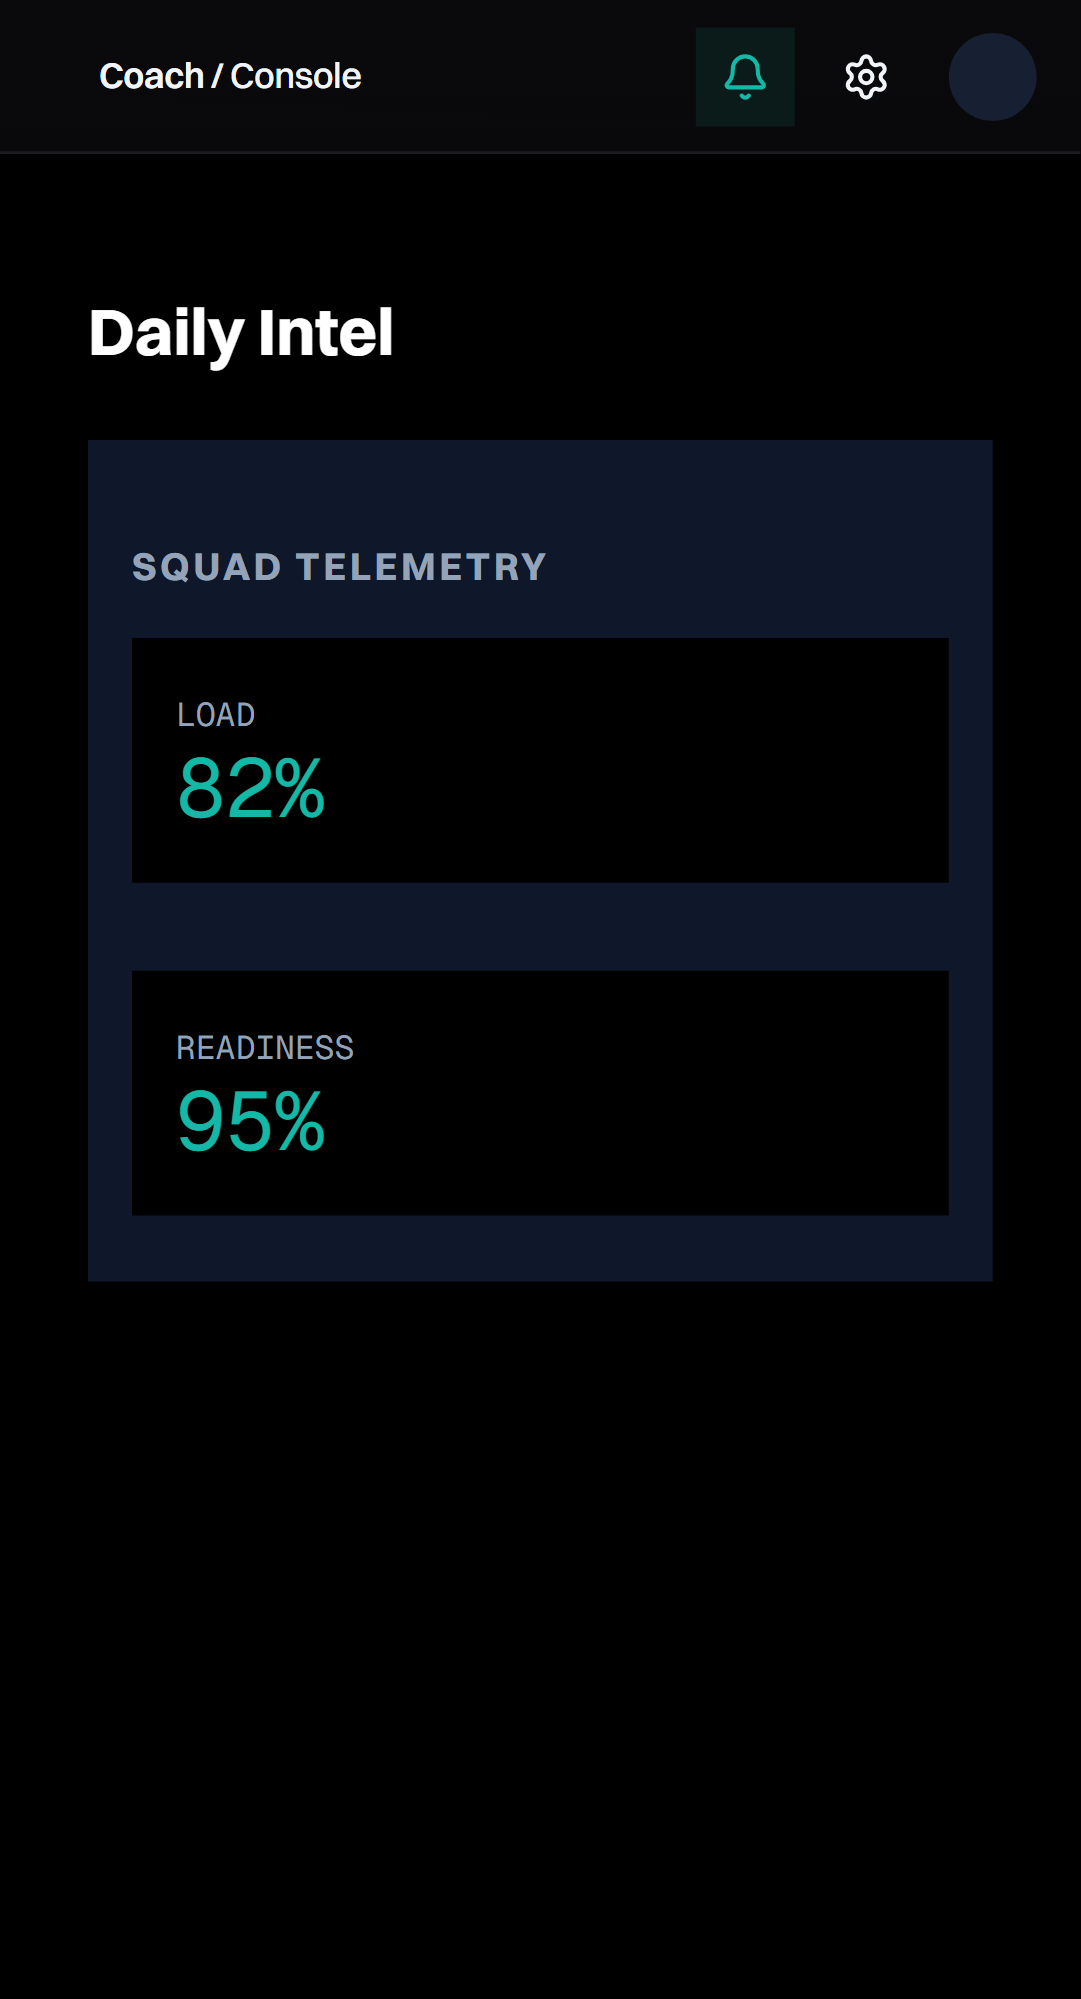
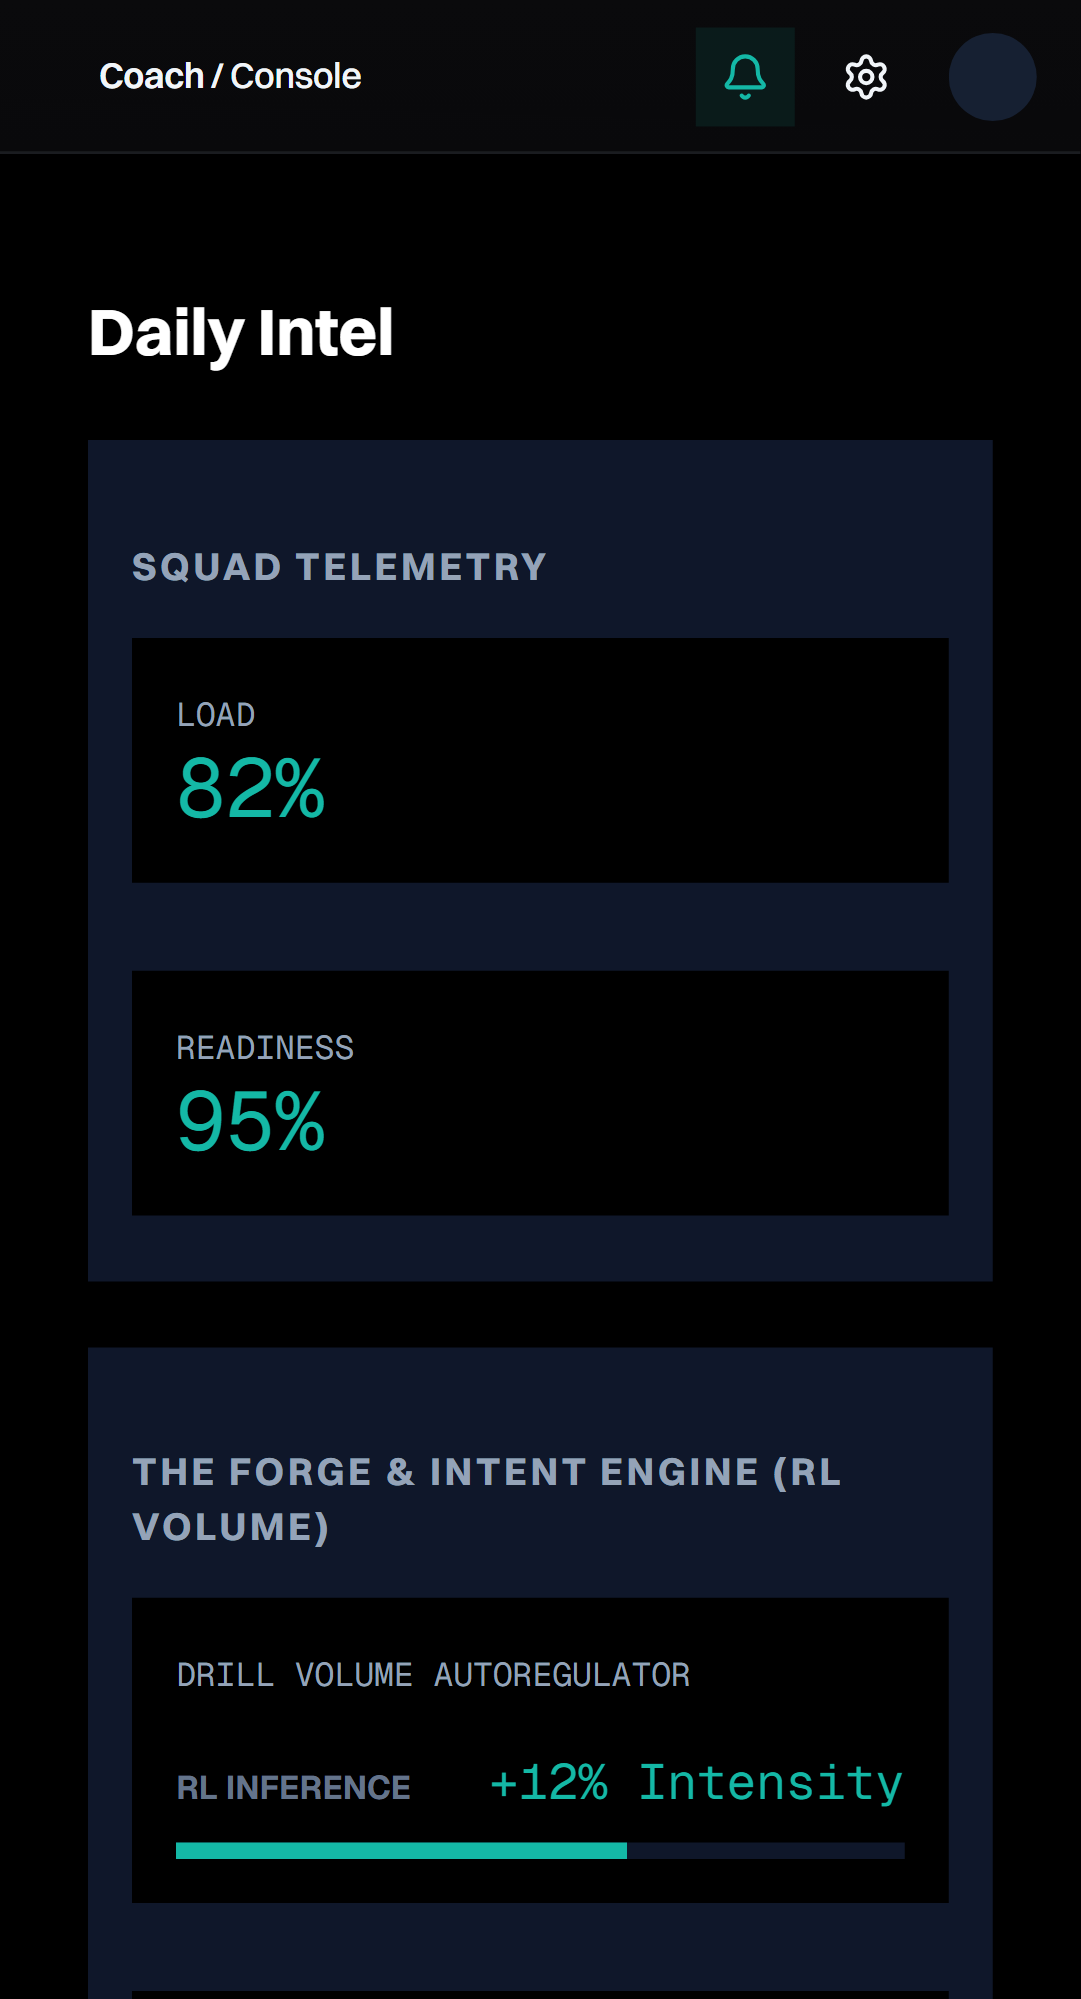
fix(coach): repair daily intel text overlap and restore roster panel

Changed region(s): [[0.0611, 0.6513, 0.9158, 1.0]]

diff --git a/src/routes/(app)/coach/daily-intel/+page.svelte b/src/routes/(app)/coach/daily-intel/+page.svelte
@@ -1,5 +1,9 @@
 <script lang="ts">
 	import { authStore } from '$lib/stores/auth.svelte.js';
+	import { teamsStore } from '$lib/stores/teams.svelte.js';
+	import CoachTeamRosterPanel from '$lib/coach/logistics/CoachTeamRosterPanel.svelte';
+	
+	const selectedTeamId = $derived(teamsStore.selectedTeamId);
 </script>
 
 <svelte:head>
@@ -31,7 +35,7 @@
 		<div class="tw-grid tw-gap-8" style="grid-template-columns: repeat(auto-fit, minmax(min(100%, clamp(280px, 30vw, 350px)), 1fr));">
 			<div class="bento-cell tw-bg-[#000000] tw-p-4 tw-border tw-border-[#334155]">
 				<span class="tw-font-mono tw-text-xs tw-text-[#94a3b8] tw-uppercase">Drill Volume Autoregulator</span>
-				<div class="tw-mt-4 tw-flex tw-items-center tw-justify-between">
+				<div class="tw-mt-4 tw-flex tw-flex-wrap tw-items-baseline tw-justify-between tw-gap-2">
 					<span class="tw-text-xs tw-text-[#64748b] tw-uppercase tw-font-bold">RL Inference</span>
 					<span class="tw-font-mono tw-text-lg tw-text-[#14b8a6]">+12% Intensity</span>
 				</div>
@@ -42,7 +46,7 @@
 			
 			<div class="bento-cell tw-bg-[#000000] tw-p-4 tw-border tw-border-[#334155]">
 				<span class="tw-font-mono tw-text-xs tw-text-[#94a3b8] tw-uppercase">ZPD Engine (Dynamic Difficulty)</span>
-				<div class="tw-mt-4 tw-flex tw-items-center tw-justify-between">
+				<div class="tw-mt-4 tw-flex tw-flex-wrap tw-items-baseline tw-justify-between tw-gap-2">
 					<span class="tw-text-xs tw-text-[#64748b] tw-uppercase tw-font-bold">Latency</span>
 					<span class="tw-font-mono tw-text-lg tw-text-[#d97706]">14ms</span>
 				</div>
@@ -51,5 +55,11 @@
 				</p>
 			</div>
 		</div>
+	</div>
+
+	<!-- Roster Scannable Feed -->
+	<div class="intel-panel tw-py-6 tw-px-4 tw-bg-[#0f172a] tw-border tw-border-[#334155] tw-rounded-none">
+		<h2 class="tw-text-sm tw-uppercase tw-tracking-widest tw-text-[#94a3b8] tw-mb-4 tw-font-sans">Active Roster & Operatives</h2>
+		<CoachTeamRosterPanel teamId={selectedTeamId} />
 	</div>
 </div>
